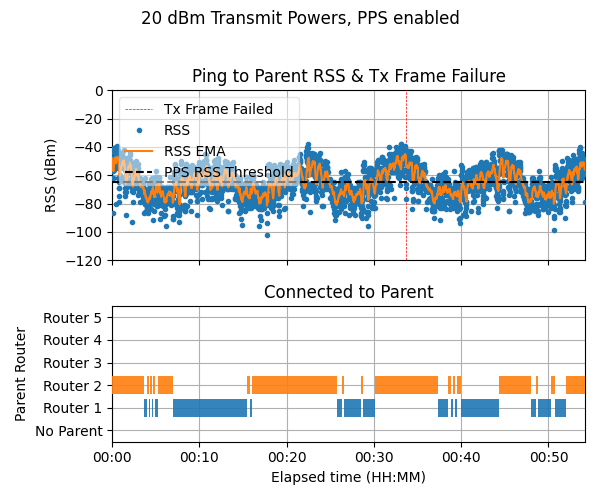
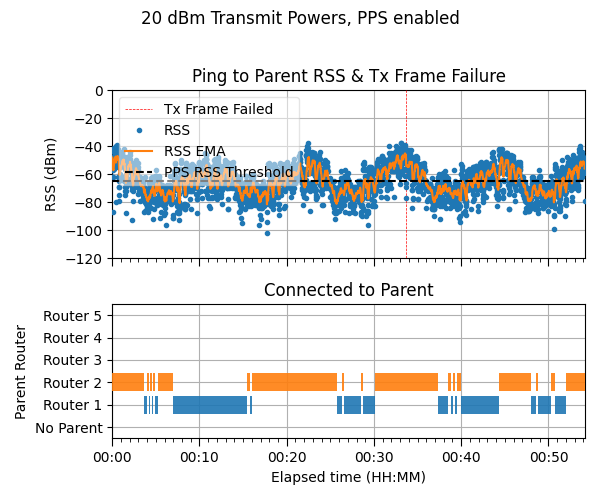
added minor ticks

diff --git a/openthread_log_visualizer.py b/openthread_log_visualizer.py
@@ -8,7 +8,7 @@ from pathlib import Path
 from typing import Dict, List, Optional, Tuple
 
 import matplotlib.pyplot as plt
-from matplotlib.ticker import FuncFormatter, MultipleLocator
+from matplotlib.ticker import FuncFormatter, MultipleLocator, NullFormatter
 
 from openthread_log_parser import DATA_DIR as PARSER_DATA_DIR
 from openthread_log_parser import LogMetrics, parse_log_file
@@ -38,6 +38,7 @@ LEGEND_ZORDER: int = 50
 
 # X-axis tick interval (relative elapsed time)
 TIME_TICK_INTERVAL_MINUTES: int = 10
+TIME_MINOR_TICK_INTERVAL_MINUTES: int = 1  # minor tick marks between major ticks
 
 # Parent plot styling
 NO_PARENT_COLOR: str = "0.35"  # dark grey (0=black, 1=white)
@@ -302,15 +303,31 @@ def _format_elapsed_hhmm(x_seconds: float, _pos: int) -> str:
     return f"{hours:02d}:{minutes:02d}"
 
 
-def _configure_elapsed_time_axis_hhmm(axes, *, interval_minutes: int = TIME_TICK_INTERVAL_MINUTES) -> None:
-    tick_step_seconds = max(1, interval_minutes) * 60
-    locator = MultipleLocator(tick_step_seconds)
-    formatter = FuncFormatter(_format_elapsed_hhmm)
+def _configure_elapsed_time_axis_hhmm(
+    axes,
+    *,
+    interval_minutes: int = TIME_TICK_INTERVAL_MINUTES,
+    minor_interval_minutes: int = TIME_MINOR_TICK_INTERVAL_MINUTES,
+) -> None:
+    major_step_seconds = max(1, interval_minutes) * 60
+    minor_step_seconds = max(1, minor_interval_minutes) * 60
+
+    major_locator = MultipleLocator(major_step_seconds)
+    minor_locator = MultipleLocator(minor_step_seconds)
+    major_formatter = FuncFormatter(_format_elapsed_hhmm)
 
     for ax in axes:
-        ax.xaxis.set_major_locator(locator)
-        ax.xaxis.set_major_formatter(formatter)
+        ax.xaxis.set_major_locator(major_locator)
+        ax.xaxis.set_major_formatter(major_formatter)
+        ax.xaxis.set_minor_locator(minor_locator)
+        ax.xaxis.set_minor_formatter(NullFormatter())
+
         ax.xaxis.offsetText.set_visible(False)
+
+        # Make minor ticks visible but unobtrusive.
+        ax.tick_params(axis="x", which="major", length=6)
+        ax.tick_params(axis="x", which="minor", length=3)
+
         for lbl in ax.get_xticklabels(which="major"):
             lbl.set_rotation(0)
             lbl.set_horizontalalignment("center")
@@ -617,7 +634,7 @@ def plot_rss_and_txfail(ax, metrics: LogMetrics) -> None:
             rss_ema,
             linestyle="-",
             linewidth=1.5,
-            label=f"RSS EMA",
+            label="RSS EMA",
             zorder=8,
         )
     else:
@@ -874,7 +891,11 @@ def process_log_file(
     plot_parents(ax_parent, metrics, end_time=parent_end)
 
     _remove_x_whitespace(axes)
-    _configure_elapsed_time_axis_hhmm(axes, interval_minutes=TIME_TICK_INTERVAL_MINUTES)
+    _configure_elapsed_time_axis_hhmm(
+        axes,
+        interval_minutes=TIME_TICK_INTERVAL_MINUTES,
+        minor_interval_minutes=TIME_MINOR_TICK_INTERVAL_MINUTES,
+    )
 
     ax_parent.set_xlabel("Elapsed time (HH:MM)")
 
